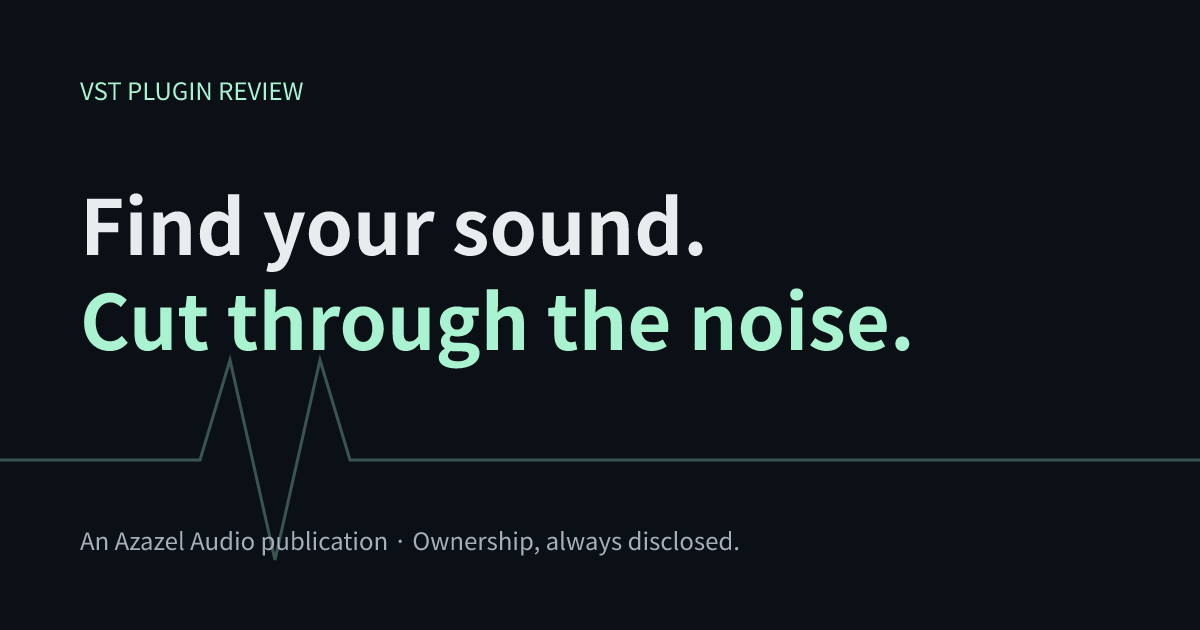
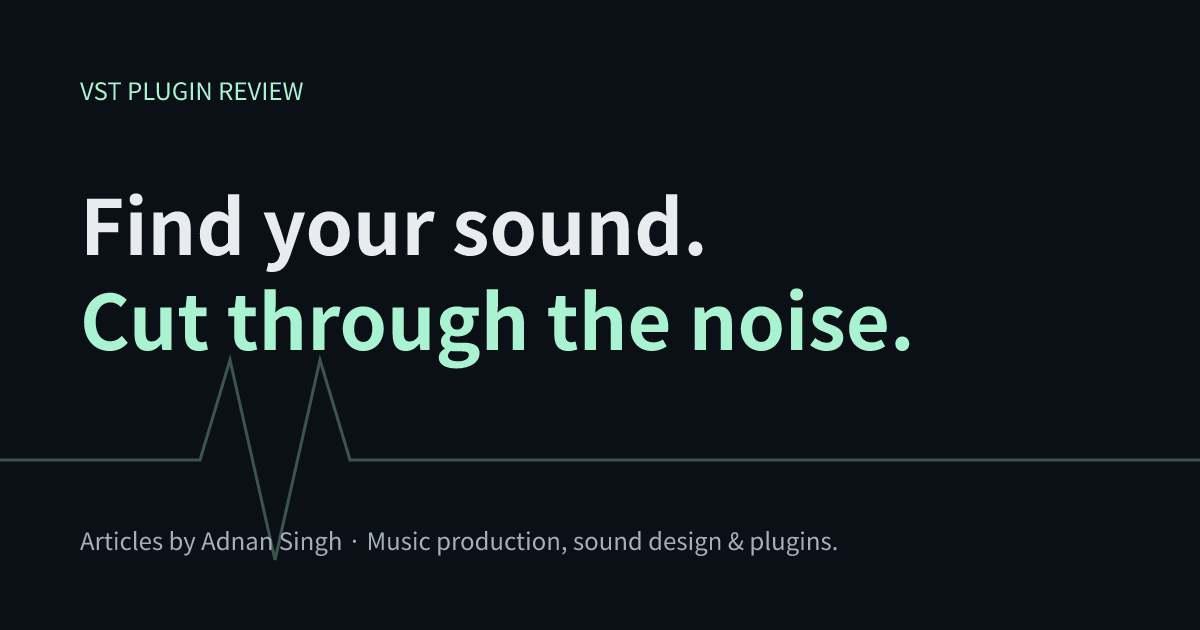
Attribute articles to Adnan Singh and remove company editorial branding

Changed region(s): [[0.0617, 0.8444, 0.7092, 0.8746]]

diff --git a/src/components/Site.tsx b/src/components/Site.tsx
@@ -29,15 +29,15 @@ const pages: Record<string, [string, string]> = {
     "Useful advice. Clear evidence. Transparent interests.",
   ],
   "/disclosures": [
-    "Ownership & affiliate disclosure",
+    "Editorial & affiliate disclosure",
     "Know who is behind the recommendations.",
   ],
   "/privacy": ["Privacy", "A small footprint, with clear choices."],
   "/terms": ["Terms of use", "Educational information, used with care."],
   "/contact": ["Contact & corrections", "Help us keep the signal clear."],
-  "/authors/azazel-audio-editorial": [
-    "Azazel Audio Editorial",
-    "The editorial team of this Azazel Audio-owned publication.",
+  "/authors/adnan-singh": [
+    "Adnan Singh",
+    "Music production, sound design and plugin articles by Adnan Singh.",
   ],
   "/free-tools": [
     "The frequency desk",
@@ -77,7 +77,7 @@ export function seo(path: string, d?: Data) {
     a?.seoDescription ??
     a?.description ??
     pages[path]?.[1] ??
-    "Music production tutorials, plugin guides and transparent editorial coverage from an Azazel Audio-owned publication.";
+    "Music production tutorials, plugin guides and sound-design articles by Adnan Singh.";
   const canonical = d.siteUrl + path.replace(/^\/preview/, "");
   return {
     meta: [
@@ -94,7 +94,7 @@ export function seo(path: string, d?: Data) {
       { property: "og:url", content: canonical },
       {
         property: "og:image",
-        content: `${d.siteUrl}${a?.heroImage ?? "/og.png"}`,
+        content: `${d.siteUrl}${a?.heroImage ?? "/og-adnan-singh.png"}`,
       },
       {
         property: "og:image:alt",
@@ -108,7 +108,7 @@ export function seo(path: string, d?: Data) {
       { name: "twitter:description", content: description },
       {
         name: "twitter:image",
-        content: `${d.siteUrl}${a?.heroImage ?? "/og.png"}`,
+        content: `${d.siteUrl}${a?.heroImage ?? "/og-adnan-singh.png"}`,
       },
       { name: "twitter:image:alt", content: a?.heroAlt ?? "VST Plugin Review" },
       ...(a && a.status === "published"
@@ -278,7 +278,7 @@ function EditorialHome({ articles }: { articles: Article[] }) {
       <div className="publication-line">
         <span>THE PRODUCTION JOURNAL</span>
         <span>Sound. Technique. Perspective.</span>
-        <span>AN AZAZEL AUDIO PUBLICATION</span>
+        <span>ARTICLES BY ADNAN SINGH</span>
       </div>
       <section className="editorial-intro">
         <EditorialHeading as="h1" size="display">
@@ -441,9 +441,9 @@ function EditorialHome({ articles }: { articles: Article[] }) {
         </div>
         <div>
           <p>
-            Azazel Audio owns this publication. We label affiliated coverage,
-            link to official sources, and distinguish documented features from
-            actual testing.
+            Articles by Adnan Singh. I link to official sources, distinguish
+            documented features from actual testing, and label affiliated
+            product coverage where relevant.
           </p>
           <a className="text-link" href="/editorial-policy">
             Read our editorial policy <Arrow />
@@ -697,12 +697,12 @@ export function ArticleLayout({ a, data }: { a: Article; data: Data }) {
       <div className="author-box">
         <span className="eyebrow">WRITTEN BY</span>
         <h2>
-          <a href="/authors/azazel-audio-editorial">Azazel Audio Editorial</a>
+          <a href="/authors/adnan-singh">Adnan Singh</a>
         </h2>
         <p>
-          The editorial team of Azazel Audio. Product ownership is disclosed;
-          this specification-based coverage and educational guidance do not
-          represent independent hands-on reviews.
+          Adnan Singh writes about music production, synthesis and practical
+          plugin workflows. These guides distinguish documented features from
+          hands-on testing; relevant product relationships are disclosed.
         </p>
         <a href="/contact">
           Suggest a correction <Arrow />
@@ -726,14 +726,16 @@ function Info({ path, data }: { path: string; data: Data }) {
           <>
             <h2>Decisions you can hear.</h2>
             <p>
-              We cover music production, sound design, and the tools that help
-              producers work with intention. Our publication is owned and
-              operated by Azazel Audio, developer of Suckerpunch and VisualComp.
+              I’m Adnan Singh. I write about music production, sound design, and
+              the tools that help producers work with intention. VST Plugin
+              Review brings those articles, tutorials and plugin guides
+              together.
             </p>
             <p>
-              Ownership creates a commercial interest. We disclose it wherever
-              relevant, distinguish education from testing, and do not disguise
-              promotion as independent evaluation.
+              I distinguish educational guidance and documentation-based
+              comparisons from hands-on testing. When I cover a product with
+              which I have a commercial relationship, I disclose that connection
+              beside the relevant coverage.
             </p>
             <a href="/editorial-policy">How our editorial process works</a>
           </>
@@ -787,12 +789,13 @@ function Info({ path, data }: { path: string; data: Data }) {
         )}
         {path === "/disclosures" && (
           <>
-            <h2>Azazel Audio owns this publication</h2>
+            <h2>Product relationships</h2>
             <p>
-              Azazel Audio develops Suckerpunch and VisualComp and has a
-              commercial interest in visits to its website. Links to Azazel
-              Audio include campaign parameters that identify this publication
-              and the article.
+              Articles are written by Adnan Singh. I am affiliated with
+              Suckerpunch and VisualComp; relevant coverage carries an adjacent
+              disclosure and does not present those products as independently
+              tested or ranked. Links to affiliated products may include
+              campaign parameters identifying the publication and article.
             </p>
             <h2>Affiliate links</h2>
             <p>
@@ -860,27 +863,30 @@ function Info({ path, data }: { path: string; data: Data }) {
               personal project files.
             </p>
             <p>
-              Until a dedicated editorial inbox is configured, contact the
-              publication through the{" "}
-              <a href="https://azazelaudio.com/" rel="noopener noreferrer">
-                official Azazel Audio website
+              Send article corrections or site feedback through this
+              publication’s{" "}
+              <a
+                href="https://github.com/arnav42069/vstpluginreview/issues"
+                rel="noopener noreferrer"
+              >
+                issue tracker
               </a>
-              .
+              . Include the article URL and a source supporting the correction.
             </p>
           </>
         )}
         {path.startsWith("/authors/") && (
           <>
-            <h2>Azazel Audio Editorial</h2>
+            <h2>Adnan Singh</h2>
             <p>
-              A team attribution for the supplied educational articles. No
-              individual biography, credentials, testing history or independent
-              reviewer identity is claimed.
+              I write practical articles about music production, synthesis,
+              mixing and audio plugins. My guides focus on understanding the
+              tools and making deliberate production decisions.
             </p>
             <p>
-              The team works within an Azazel Audio-owned publication.
-              Individual author identities and testing credentials must be
-              verified before adding them.
+              Sources and product relationships are disclosed in the relevant
+              articles. Documentation-based coverage is identified separately
+              from any documented hands-on evaluation.
             </p>
             <h2>Published work</h2>
             {data.articles
@@ -983,27 +989,35 @@ export function Site({ path, data }: { path: string; data: Data }) {
             }
           : {}),
         author: {
-          "@type": "Organization",
+          "@type": "Person",
           name: article.author,
-          url: data.siteUrl + "/authors/azazel-audio-editorial",
+          url: data.siteUrl + "/authors/adnan-singh",
         },
         publisher: {
           "@type": "Organization",
           name: "VST Plugin Review",
-          parentOrganization: { "@type": "Organization", name: "Azazel Audio" },
         },
         ...(article.heroImage
           ? { image: data.siteUrl + article.heroImage }
           : {}),
         mainEntityOfPage: data.siteUrl + "/articles/" + article.slug,
       }
-    : {
-        "@context": "https://schema.org",
-        "@type": "Organization",
-        name: "VST Plugin Review",
-        url: data.siteUrl,
-        parentOrganization: { "@type": "Organization", name: "Azazel Audio" },
-      };
+    : path === "/authors/adnan-singh"
+      ? {
+          "@context": "https://schema.org",
+          "@type": "ProfilePage",
+          mainEntity: {
+            "@type": "Person",
+            name: "Adnan Singh",
+            url: data.siteUrl + "/authors/adnan-singh",
+          },
+        }
+      : {
+          "@context": "https://schema.org",
+          "@type": "Organization",
+          name: "VST Plugin Review",
+          url: data.siteUrl,
+        };
   return (
     <>
       <ImageLightbox />
@@ -1083,7 +1097,7 @@ export function Site({ path, data }: { path: string; data: Data }) {
           <nav aria-label="Publication information">
             {[
               ["/about", "About"],
-              ["/authors/azazel-audio-editorial", "Authors"],
+              ["/authors/adnan-singh", "Authors"],
               ["/editorial-policy", "Editorial policy"],
               ["/disclosures", "Disclosures"],
               ["/contact", "Contact"],
@@ -1098,8 +1112,8 @@ export function Site({ path, data }: { path: string; data: Data }) {
           </nav>
         </div>
         <div className="footer-bottom">
-          <span>Owned and operated by Azazel Audio.</span>
-          <span>Independent thinking. Disclosed interests.</span>
+          <span>Articles by Adnan Singh.</span>
+          <span>Practical knowledge. Clear sources.</span>
         </div>
       </footer>
       <script

diff --git a/tests/e2e/author.spec.ts b/tests/e2e/author.spec.ts
@@ -1,0 +1,52 @@
+import { test, expect } from "@playwright/test";
+test("personal bylines and author metadata replace company editorial branding", async ({
+  page,
+  request,
+}) => {
+  for (const path of [
+    "/",
+    "/about",
+    "/contact",
+    "/editorial-policy",
+    "/disclosures",
+    "/authors/adnan-singh",
+    "/articles/best-compressor-vst-plugins-2026",
+    "/articles/best-free-vst-plugins-2026",
+    "/articles/modular-synthesis-beginners-guide",
+  ]) {
+    const response = await page.goto(path);
+    expect(response?.status()).toBe(200);
+    await expect(page.locator("body")).not.toContainText("Azazel Audio");
+    await expect(page.locator("body")).toContainText("Adnan Singh");
+  }
+  await page.goto("/articles/kick-drum-synthesis-guide");
+  await expect(page.locator(".article-heading")).toContainText("Adnan Singh");
+  await expect(page.locator(".site-header")).not.toContainText("Azazel Audio");
+  await expect(page.locator("footer")).not.toContainText("Azazel Audio");
+  await expect(page.locator(".prose")).toContainText(
+    "Suckerpunch is developed by Azazel Audio",
+  );
+  const schema = JSON.parse(
+    (await page
+      .locator('script[type="application/ld+json"]')
+      .first()
+      .textContent())!,
+  );
+  expect(schema.author).toEqual({
+    "@type": "Person",
+    name: "Adnan Singh",
+    url: expect.stringContaining("/authors/adnan-singh"),
+  });
+  expect(schema.publisher.parentOrganization).toBeUndefined();
+  const legacy = await request.get("/authors/azazel-audio-editorial", {
+    maxRedirects: 0,
+  });
+  expect(legacy.status()).toBe(301);
+  expect(legacy.headers().location).toBe("/authors/adnan-singh");
+  const map = await (await request.get("/sitemap.xml")).text();
+  expect(map).toContain("/authors/adnan-singh");
+  expect(map).not.toContain("azazel-audio-editorial");
+  const rss = await (await request.get("/rss.xml")).text();
+  expect(rss).toContain("<dc:creator>Adnan Singh</dc:creator>");
+  expect(rss).not.toContain("Azazel Audio Editorial");
+});

diff --git a/src/lib/site.server.ts b/src/lib/site.server.ts
@@ -26,7 +26,7 @@ export const publicPaths = [
   "/terms",
   "/contact",
   "/disclosures",
-  "/authors/azazel-audio-editorial",
+  "/authors/adnan-singh",
   "/categories/sound-design",
   "/categories/mixing",
   "/categories/plugin-guides",
@@ -52,10 +52,10 @@ export function sitemap() {
     .join("")}</urlset>`;
 }
 export function rss() {
-  return `<?xml version="1.0"?><rss version="2.0"><channel><title>VST Plugin Review</title><link>${siteUrl}</link><description>Evidence, sound, and workflow over hype.</description>${getArticles()
+  return `<?xml version="1.0"?><rss version="2.0" xmlns:dc="http://purl.org/dc/elements/1.1/"><channel><title>VST Plugin Review</title><link>${siteUrl}</link><description>Evidence, sound, and workflow over hype.</description>${getArticles()
     .map(
       (a) =>
-        `<item><title>${xml(a.title)}</title><description>${xml(a.description)}</description><link>${siteUrl}/articles/${a.slug}</link><guid>${siteUrl}/articles/${a.slug}</guid><pubDate>${new Date(a.date).toUTCString()}</pubDate></item>`,
+        `<item><title>${xml(a.title)}</title><dc:creator>${xml(a.author)}</dc:creator><description>${xml(a.description)}</description><link>${siteUrl}/articles/${a.slug}</link><guid>${siteUrl}/articles/${a.slug}</guid><pubDate>${new Date(a.date).toUTCString()}</pubDate></item>`,
     )
     .join("")}</channel></rss>`;
 }

diff --git a/src/routes/$.tsx b/src/routes/$.tsx
@@ -1,9 +1,11 @@
-import { createFileRoute, notFound } from "@tanstack/react-router";
+import { createFileRoute, notFound, redirect } from "@tanstack/react-router";
 import { loadSite } from "../lib/data";
 import { Site, seo, validPath } from "../components/Site";
 export const Route = createFileRoute("/$")({
   loader: async ({ params }) => {
     const path = "/" + (params._splat || "");
+    if (path === "/authors/azazel-audio-editorial")
+      throw redirect({ href: "/authors/adnan-singh", statusCode: 301 });
     const data = await loadSite({ data: path.startsWith("/preview") });
     if (!validPath(path, data)) throw notFound();
     return { path, data };

diff --git a/src/components/Editorial.tsx b/src/components/Editorial.tsx
@@ -36,7 +36,7 @@ export function ProductMention({
       <p>{reason}</p>
       <p>
         {type === "owned"
-          ? "Ownership disclosure: Azazel Audio operates this publication and develops this product."
+          ? "Affiliation disclosure: the author is affiliated with this product. This coverage is not an independent review."
           : type === "affiliate"
             ? "Affiliate disclosure: we may earn a commission if you purchase through this link."
             : "Independent vendor link. No commercial relationship is asserted."}

diff --git a/src/components/ArticlePresentation.tsx b/src/components/ArticlePresentation.tsx
@@ -18,8 +18,8 @@ export function ArticleHeader({
       </EditorialHeading>
       <p>{a.description}</p>
       <div className="meta">
-        <a href="/authors/azazel-audio-editorial">{a.author}</a> ·{" "}
-        {a.readingMinutes} MIN READ ·{" "}
+        <a href="/authors/adnan-singh">{a.author}</a> · {a.readingMinutes} MIN
+        READ ·{" "}
         {unpublished ? (
           "UNPUBLISHED — DATE PENDING"
         ) : (

diff --git a/src/lib/content-schema.ts b/src/lib/content-schema.ts
@@ -24,7 +24,7 @@ export const articleSchema = z.object({
   slug: z.string().regex(/^[a-z0-9]+(?:-[a-z0-9]+)*$/),
   date: z.iso.date(),
   updated: z.iso.date().optional(),
-  author: z.literal("Azazel Audio Editorial"),
+  author: z.literal("Adnan Singh"),
   category: z.enum(["Sound Design", "Mixing", "Plugin Guides"]),
   tags: z.array(z.string()).min(1),
   skillLevel: z.enum(["Beginner", "Intermediate", "Advanced"]),

diff --git a/tests/e2e/site.spec.ts b/tests/e2e/site.spec.ts
@@ -22,7 +22,7 @@ test("public pages render and exclude unpublished content", async ({
     "/privacy",
     "/terms",
     "/contact",
-    "/authors/azazel-audio-editorial",
+    "/authors/adnan-singh",
     "/categories/mixing",
   ]) {
     const response = await page.goto(path);

diff --git a/scripts/content.ts b/scripts/content.ts
@@ -147,7 +147,7 @@ const staticPaths = new Set([
   "/terms",
   "/contact",
   "/disclosures",
-  "/authors/azazel-audio-editorial",
+  "/authors/adnan-singh",
   "/categories/sound-design",
   "/categories/mixing",
   "/categories/plugin-guides",
